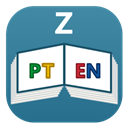
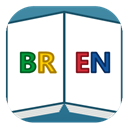
Fix 7 files (fix, build, docs)
- Update icon 128
- Update icon
- Fix ty = centro vertical das paginas (topo ~0.13, base ~0.84 na posicao dos rotulos)
- Update documentation

diff --git a/README.md b/README.md
@@ -1,6 +1,6 @@
 # GitExtensions.ZimerfeldCommitMsg
 
-**Versão:** 1.0.43
+**Versão:** 1.0.44
 **Atualizado em:** 2026-06-09
 
 ![Screenshot](https://raw.githubusercontent.com/zimerfeld/ZimerfeldCommitMsg/main/Screenshot.png)